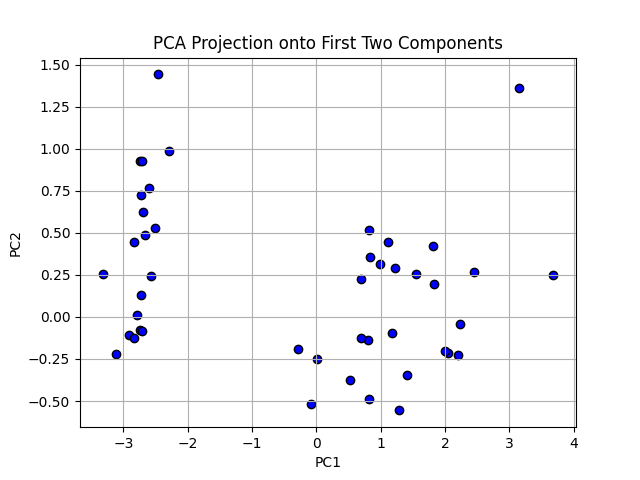
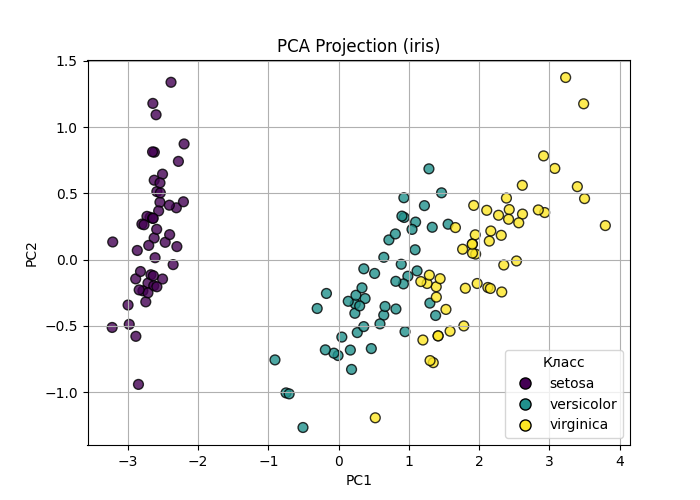
feat: добавлены цвета в визуализации, update: обновленный вызов и работа метода PCA на датасетах

diff --git a/pcalib/py/algorithms.py b/pcalib/py/algorithms.py
@@ -223,19 +223,41 @@ def pca(X: 'Matrix', k: int) -> Tuple['Matrix', float]:
     return X_proj, gamma
 
 
-def plot_pca_projection(X_proj: 'Matrix') -> Figure:
+def plot_pca_projection(X_proj: 'Matrix', y=None, class_names=None, title=None) -> Figure:
     """
     Визуализирует проекцию данных на первые две главные компоненты.
     """
     if X_proj.m != 2:
         raise ValueError("Для визуализации требуется проекция на 2 компоненты (n x 2)")
     x = [row[0] for row in X_proj.data]
-    y = [row[1] for row in X_proj.data]
-    fig, ax = plt.subplots()
-    ax.scatter(x, y, c='blue', edgecolor='k')
+    y_proj = [row[1] for row in X_proj.data]
+    fig, ax = plt.subplots(figsize=(7, 5))
+    if y is not None:
+        import numpy as np
+        y = list(y)
+        scatter = ax.scatter(x, y_proj, c=y, cmap='viridis', edgecolor='k', s=50, alpha=0.8)
+        if class_names is not None:
+            # Для дискретных классов
+            handles = []
+            unique = sorted(set(y))
+            for i, cl in enumerate(unique):
+                handles.append(
+                    plt.Line2D([], [], marker='o', color='w',
+                               markerfacecolor=plt.cm.viridis(i / max(1, len(unique) - 1)),
+                               markeredgecolor='k', markersize=8,
+                               label=str(class_names[cl] if cl < len(class_names) else cl))
+                )
+            ax.legend(handles=handles, title="Класс")
+        else:
+            fig.colorbar(scatter, ax=ax, label='Class')
+    else:
+        ax.scatter(x, y_proj, c='blue', edgecolor='k', s=50, alpha=0.8)
     ax.set_xlabel('PC1')
     ax.set_ylabel('PC2')
-    ax.set_title('PCA Projection onto First Two Components')
+    if title is not None:
+        ax.set_title(title)
+    else:
+        ax.set_title('PCA Projection onto First Two Components')
     ax.grid(True)
     return fig
 
@@ -334,25 +356,41 @@ def add_noise_and_compare(X: 'Matrix', noise_level: float = 0.1):
     }
 
 
-def apply_pca_to_dataset(dataset_name: str, k: int) -> Tuple['Matrix', float]:
+def apply_pca_and_visualize(X, y, class_names, k, fig_path, title=None):
     """
-    Применяет PCA к реальному датасету и оценивает качество классификации.
+    Применяет PCA к данным, строит график и возвращает проекцию и точность классификации.
     """
-    from sklearn.datasets import load_digits, load_wine, load_iris
+    from .matrix import Matrix
     from sklearn.model_selection import train_test_split
-    if dataset_name == 'digits':
-        data = load_digits()
-    elif dataset_name == 'wine':
-        data = load_wine()
-    elif dataset_name == 'iris':
-        data = load_iris()
-    else:
-        raise ValueError("Поддерживаются только 'digits', 'wine', 'iris'")
-    X = data.data
-    y = data.target
     X_train, X_test, y_train, y_test = train_test_split(X, y, test_size=0.3, random_state=42)
+    X_train_mat = Matrix([list(row) for row in X_train])
+    X_test_mat = Matrix([list(row) for row in X_test])
 
-    # Классификатор KNN реализуем вручную:
+    # PCA по train
+    from .algorithms import pca, mean_by_column
+    X_train_proj, _ = pca(X_train_mat, k)
+    # Получаем Vk и means
+    means = mean_by_column(X_train_mat)
+    X_train_centered = [[X_train_mat.data[i][j] - means[j] for j in range(X_train_mat.m)] for i in range(X_train_mat.n)]
+    X_test_centered = [[X_test_mat.data[i][j] - means[j] for j in range(X_test_mat.m)] for i in range(X_test_mat.n)]
+    # Получаем Vk
+    C = covariance_matrix(Matrix(X_train_centered))
+    eigenvalues = find_eigenvalues(C)
+    eigenvectors = find_eigenvectors(C, eigenvalues)
+    Vk_data = [[eigenvectors[j].data[i][0] for i in range(C.m)] for j in range(k)]
+    Vk = Matrix([list(col) for col in zip(*Vk_data)])  # m x k
+
+    # Проекция test
+    X_test_proj_data = []
+    for i in range(len(X_test_centered)):
+        row = []
+        for j in range(k):
+            val = sum(X_test_centered[i][l] * Vk.data[l][j] for l in range(len(X_test_centered[0])))
+            row.append(val)
+        X_test_proj_data.append(row)
+    X_test_proj = Matrix(X_test_proj_data)
+
+    # Классификация KNN вручную
     def knn_predict(X_train, y_train, X_test, k_neighbors=3):
         def euclidean(a, b):
             return sum((x - y) ** 2 for x, y in zip(a, b)) ** 0.5
@@ -365,35 +403,13 @@ def apply_pca_to_dataset(dataset_name: str, k: int) -> Tuple['Matrix', float]:
             preds.append(max(set(top_k), key=top_k.count))
         return preds
 
-    # Accuracy на исходных данных
-    y_pred_full = knn_predict(X_train, y_train, X_test)
-    acc_full = accuracy_score_manual(y_test, y_pred_full)
-    print(f"Точность на исходных данных: {acc_full:.4f}")
-    # PCA
-    X_train_mat = Matrix([list(row) for row in X_train])
-    X_test_mat = Matrix([list(row) for row in X_test])
-    X_train_proj, _ = pca(X_train_mat, k)
-    # Получаем Vk
-    X_train_centered = center_data(X_train_mat)
-    C = covariance_matrix(X_train_centered)
-    eigenvalues = find_eigenvalues(C)
-    eigenvectors = find_eigenvectors(C, eigenvalues)
-    Vk_data = [[eigenvectors[j].data[i][0] for i in range(C.m)] for j in range(k)]
-    Vk = Matrix([list(col) for col in zip(*Vk_data)])  # m x k
-    means = mean_by_column(X_train_mat)
-    X_test_centered_data = [[X_test_mat.data[i][j] - means[j] for j in range(X_test_mat.m)] for i in
-                            range(X_test_mat.n)]
-    X_test_centered = Matrix(X_test_centered_data)
-    X_test_proj_data = []
-    for i in range(X_test_centered.n):
-        row = []
-        for j in range(k):
-            val = sum(X_test_centered.data[i][l] * Vk.data[l][j] for l in range(X_test_centered.m))
-            row.append(val)
-        X_test_proj_data.append(row)
-    X_test_proj = Matrix(X_test_proj_data)
-    # Классификация на проекциях
     y_pred_pca = knn_predict(X_train_proj.data, y_train, X_test_proj.data)
-    acc_pca = accuracy_score_manual(y_test, y_pred_pca)
-    print(f"Точность после PCA (k={k}): {acc_pca:.4f}")
-    return X_test_proj, acc_pca
+    acc_pca = sum(yt == yp for yt, yp in zip(y_test, y_pred_pca)) / len(y_test)
+
+    # Визуализация по всему X (а не только по test!)
+    X_full_mat = Matrix([list(row) for row in X])
+    X_full_proj, _ = pca(X_full_mat, k)
+    fig = plot_pca_projection(X_full_proj, y=y, class_names=class_names, title=title)
+    fig.savefig(fig_path)
+
+    return X_full_proj, acc_pca

diff --git a/main.py b/main.py
@@ -1,149 +1,36 @@
-from pcalib import Matrix, gauss_solver, center_data, covariance_matrix, find_eigenvalues, find_eigenvectors, \
-    explained_variance_ratio, pca, plot_pca_projection, reconstruction_error, reconstruct_from_pca, auto_select_k, \
-    handle_missing_values, add_noise_and_compare, apply_pca_to_dataset
+from pcalib import apply_pca_and_visualize
 import os
-
-
-def verify_eigenvector(C: Matrix, v: Matrix, lambda_val: float, tol: float = 1e-6) -> bool:
-    """
-    Проверяет, является ли v собственным вектором матрицы C с собственным значением lambda.
-    Проверяет уравнение (C-λI)v = 0.
-    """
-    m = C.n
-    result = []
-    for i in range(m):
-        val = 0.0
-        for j in range(m):
-            if i == j:
-                val += (C.data[i][j] - lambda_val) * v.data[j][0]
-            else:
-                val += C.data[i][j] * v.data[j][0]
-        result.append(abs(val))
-
-    return all(x < tol for x in result)
+from sklearn.datasets import load_iris, load_wine
 
 
 def main():
-    A = [
-        [2, -1, 0],
-        [-1, 2, -1],
-        [0, -1, 2]
-    ]
-    b = [1, 0, 1]
-    mat = Matrix(A)
-    try:
-        solution = gauss_solver(mat, b)
-        print("Решение системы:", solution)
-    except ValueError as e:
-        print("Ошибка:", e)
-
-    X = [
-        [1, 2, 3],
-        [4, 5, 6],
-        [7, 8, 9]
-    ]
-    mat2 = Matrix(X)
-    centered_mat = center_data(mat2)
-    print("Центрированная матрица:")
-    for row in centered_mat.data:
-        print(row)
-
-    cov_mat = covariance_matrix(centered_mat)
-    print("Матрица ковариаций:")
-    for row in cov_mat.data:
-        print(row)
-
-    eigenvalues = find_eigenvalues(cov_mat, tol=1e-8)
-    print("Собственные значения:")
-    for val in eigenvalues:
-        print(val)
-
-    # Вычисление доли объяснённой дисперсии для первых k компонент
-    for k in range(1, len(eigenvalues) + 1):
-        gamma = explained_variance_ratio(eigenvalues, k)
-        print(f"Доля объяснённой дисперсии для первых {k} компонент: {gamma:.6f}")
-
-    eigenvectors = find_eigenvectors(cov_mat, eigenvalues)
-    print("Собственные векторы:")
-    for i, vec in enumerate(eigenvectors):
-        print(f"Вектор {i + 1}:")
-        for row in vec.data:
-            print(row)
-
-    print("\nПроверка собственных векторов:")
-    for i, (vec, val) in enumerate(zip(eigenvectors, eigenvalues)):
-        is_valid = verify_eigenvector(cov_mat, vec, val)
-        print(f"Вектор {i + 1} {'является' if is_valid else 'не является'} собственным вектором")
-
-        print("\n=== Проверка на другой матрице ===")
-
-    X2 = [
-        [10, 1, 0],
-        [8, 2, 1],
-        [6, 1, 2],
-        [4, 3, 3],
-        [2, 4, 4]
-    ]
-    mat3 = Matrix(X2)
-    centered_mat2 = center_data(mat3)
-    print("Центрированная матрица:")
-    for row in centered_mat2.data:
-        print(row)
-
-    cov_mat2 = covariance_matrix(centered_mat2)
-    print("Матрица ковариаций:")
-    for row in cov_mat2.data:
-        print(row)
-
-    eigenvalues2 = find_eigenvalues(cov_mat2, tol=1e-8)
-    print("Собственные значения:")
-    for val in eigenvalues2:
-        print(val)
-
-    for k in range(1, len(eigenvalues2) + 1):
-        gamma = explained_variance_ratio(eigenvalues2, k)
-        print(f"Доля объяснённой дисперсии для первых {k} компонент: {gamma:.6f}")
-
-    X = Matrix([
-        [10, 1, 0],
-        [8, 2, 1],
-        [6, 1, 2],
-        [4, 3, 3],
-        [2, 4, 4]
-    ])
-    X_proj, gamma = pca(X, k=2)
-    print("Проекция данных:")
-    for row in X_proj.data:
-        print(row)
-    print("Доля объяснённой дисперсии:", gamma)
-
-    X_recon = reconstruct_from_pca(X_proj, X, k=2)
-    mse = reconstruction_error(X, X_recon)
-    print("MSE:", mse)
-
-    fig = plot_pca_projection(X_proj)
-    fig.savefig('results/pca_projection.png')
-
-    k_opt = auto_select_k(eigenvalues, threshold=0.95)
-    print("Оптимальное число компонент:", k_opt)
-
-    X_filled = handle_missing_values(X)
-
-    results = add_noise_and_compare(X, noise_level=0.2)
     os.makedirs('results', exist_ok=True)
-    results['fig_before'].savefig('results/pca_noise_before.png')
-    results['fig_after'].savefig('results/pca_noise_after.png')
 
-    print("\n=== PCA на датасете wine ===")
-    X_proj_wine, acc_wine = apply_pca_to_dataset('wine', k=5)
-    print("Accuracy after PCA on wine:", acc_wine)
-
+    # IRIS
+    iris = load_iris()
     print("\n=== PCA на датасете iris ===")
-    X_proj_iris, acc_iris = apply_pca_to_dataset('iris', k=2)
+    X_proj_iris, acc_iris = apply_pca_and_visualize(
+        X=iris.data,
+        y=iris.target,
+        class_names=iris.target_names,
+        k=2,
+        fig_path='results/pca_iris.png',
+        title="PCA Projection (iris)"
+    )
     print("Accuracy after PCA on iris:", acc_iris)
-    os.makedirs('results', exist_ok=True)
-    fig_iris = plot_pca_projection(X_proj_iris)
-    fig_iris.savefig('results/pca_iris.png')
+
+    # WINE
+    wine = load_wine()
+    print("\n=== PCA на датасете wine ===")
+    X_proj_wine, acc_wine = apply_pca_and_visualize(
+        X=wine.data,
+        y=wine.target,
+        class_names=wine.target_names,
+        k=2,
+        fig_path='results/pca_wine.png',
+        title="PCA Projection (wine)"
+    )
+    print("Accuracy after PCA on wine:", acc_wine)
 
 
 if __name__ == "__main__":
